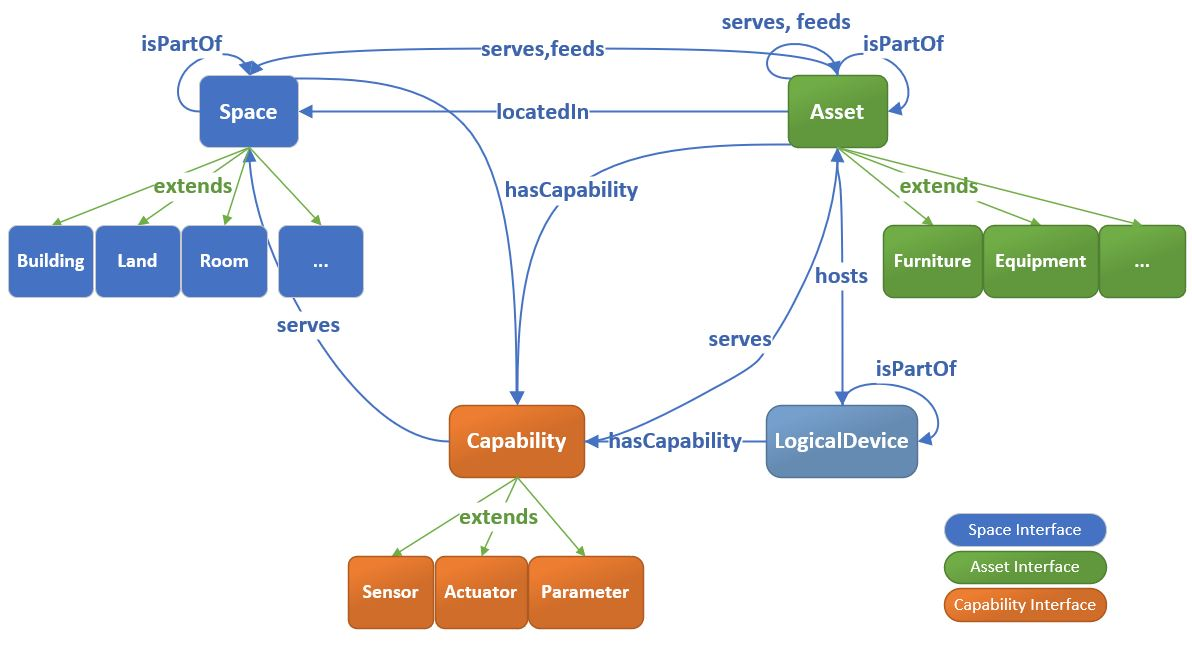
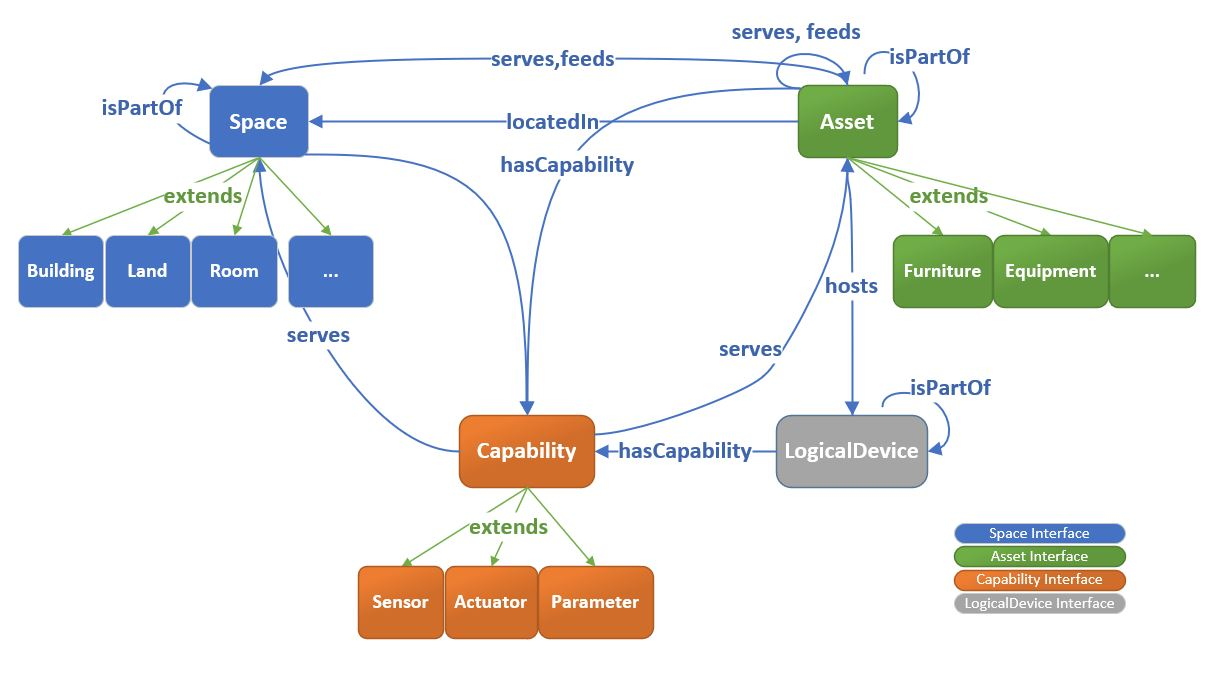
add reminder to add relationships, fixed OntologyDiagram image

diff --git a/README.md b/README.md
@@ -42,6 +42,12 @@ RealEstateCore ontology consists of a main set of interfaces:
   - **Event** - A spatiotemporally indexed entity with participants, something which occurs somewhere, and that has or takes some time, for example a Lease or Rent.
   - **Role** -- A role that is held by some agent, for example a person could hold a Sales Representative role, or an organization could hold a Maintenance Responsibility role
 
+
+RealEstateCore ontology has these main set of relationships:
+- **isPartOf**, **hasPart** - A simplified set of topological relations to connect sub- and super-entities within the top-level RealEstateCore interface tree. "isPartOf" and "hasPart" are now defined to operate on entities of the same type, for example Spaces have only Spaces as parts, Assets have only Assets as parts, etc.
+- <*to be finsihed with all relationships*/
+
+
 ## Using RealEstateCore ontology
 
 Here is a real example of a subgraph of twins' instances based on this ontology
@@ -211,7 +217,7 @@ Now that you have extended your specialized interface/s, ask yourself if your ex
 
 We are working on improving the main interfaces, adding more interfaces in building's areas that we don't support, as well as making better tools to integrate and use the models in smart building platforms and its applications.
 
-We encourage you to contribute to make DTDL RealEstateCore-based ontology better. Please point out bugs or peculiarities, add or extend interfaces and vocabularies, suggest improvements in order to evolve this ontology.
+We encourage you to contribute to make DTDL RealEstateCore-based ontology better. Please point out bugs or peculiarities, add or extend interfaces and vocabularies, suggest improvements to evolve this ontology.
 
 - Comment or create a new issue for bug reporting or anything else you want to trigger us
 - For improvements, please fork the rec repository, make your changes and send a pull request
